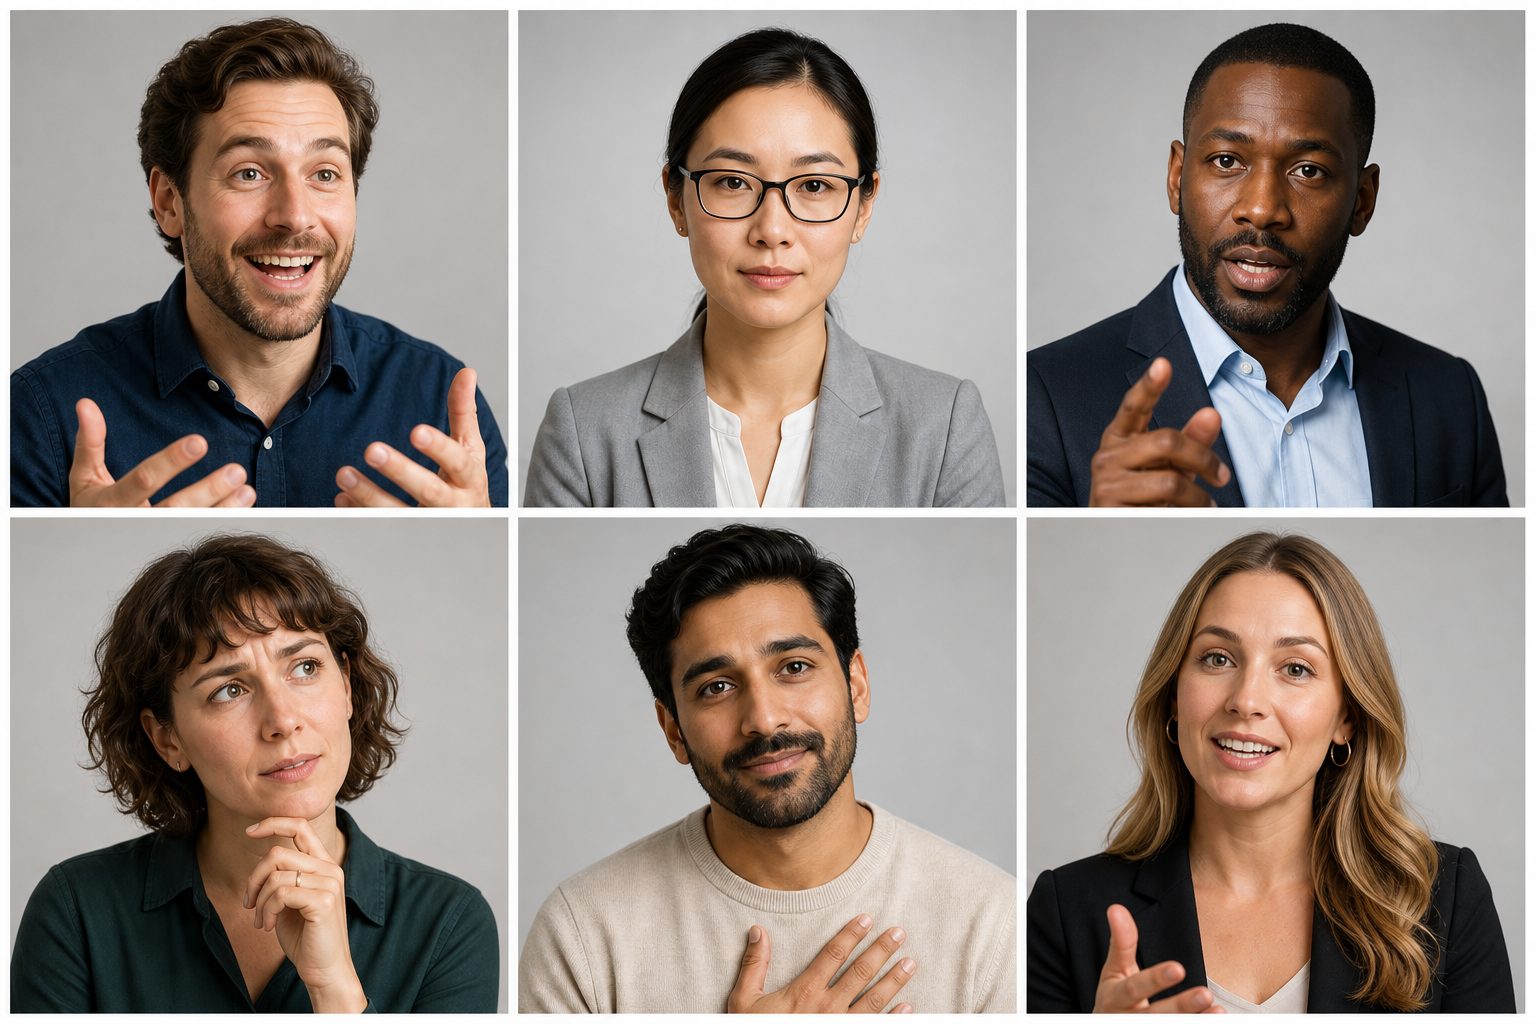
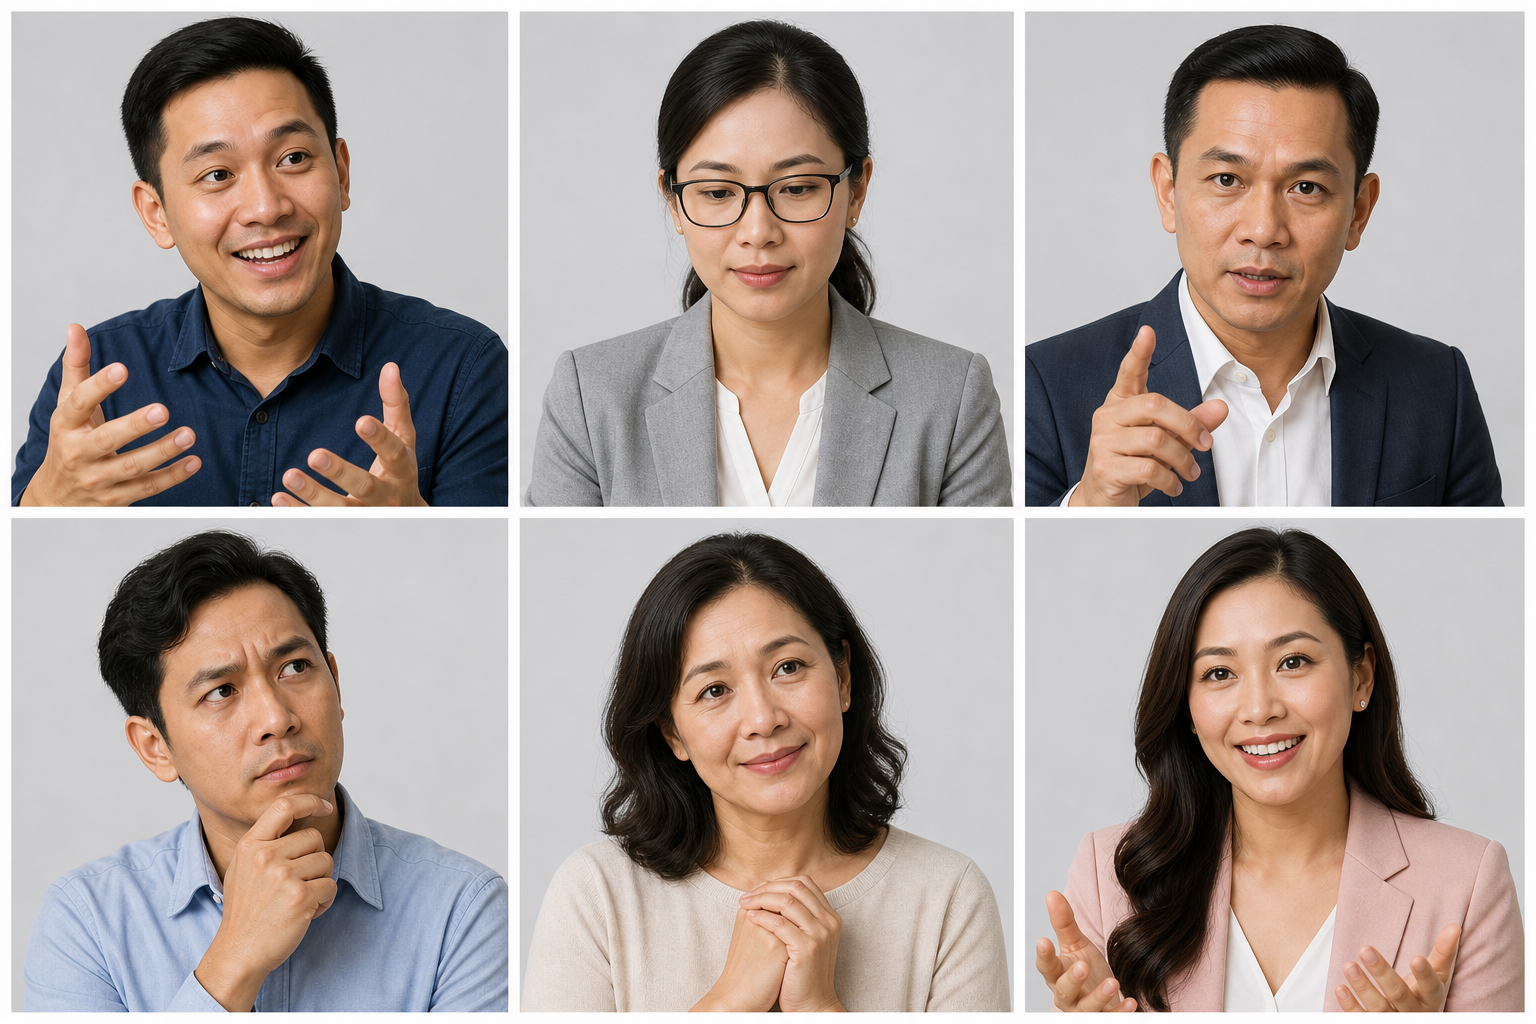
update code

diff --git a/games/communication-styles/index.html b/games/communication-styles/index.html
@@ -90,6 +90,13 @@
         color: var(--ink);
       }
 
+      .inline-answer {
+        border: 1px solid rgba(47, 128, 237, 0.16);
+        box-shadow:
+          0 14px 32px rgba(47, 128, 237, 0.08),
+          inset 0 1px 0 rgba(255, 255, 255, 0.96);
+      }
+
       .quiz-card.correct {
         border-color: rgba(22, 163, 74, 0.52);
         background: #f8fff9;
@@ -138,28 +145,23 @@
 
         <div id="quizGrid" class="grid gap-5 lg:grid-cols-2"></div>
 
-        <div class="mt-6 flex flex-wrap gap-3">
-          <button
-            id="submitBtn"
-            class="min-h-12 rounded-xl bg-[var(--ink)] px-6 text-base font-black text-white shadow-lg shadow-slate-300 transition hover:bg-slate-900"
-          >
-            Nộp bài
-          </button>
-          <button
-            id="resetBtn"
-            class="min-h-12 rounded-xl border border-slate-200 bg-white px-6 text-base font-black text-slate-600 shadow-sm transition hover:text-[var(--ink)]"
-          >
-            Chơi lại
-          </button>
-        </div>
-
-        <section id="answersPanel" class="mt-8 hidden">
-          <div class="mb-4 flex items-center justify-between gap-4">
-            <h2 class="text-2xl font-black text-[var(--ink)]">Đáp án</h2>
-            <p id="scoreText" class="text-sm font-bold text-slate-500"></p>
+        <div class="mt-6 rounded-2xl border border-blue-100 bg-white/78 p-3">
+          <div class="flex flex-wrap items-center justify-center gap-3">
+            <button
+              id="submitBtn"
+              class="min-h-12 rounded-xl bg-[var(--ink)] px-8 text-base font-black text-white shadow-lg shadow-slate-300 transition hover:bg-slate-900"
+            >
+              Nộp bài
+            </button>
+            <button
+              id="resetBtn"
+              class="min-h-12 rounded-xl border border-slate-200 bg-white px-6 text-base font-black text-slate-600 shadow-sm transition hover:text-[var(--ink)]"
+            >
+              Chơi lại
+            </button>
+            <p id="scoreText" class="hidden text-sm font-black text-slate-600"></p>
           </div>
-          <div id="answersGrid" class="grid gap-4 md:grid-cols-2 xl:grid-cols-3"></div>
-        </section>
+        </div>
       </section>
     </main>
 
@@ -167,7 +169,7 @@
       const styles = [
         {
           id: "expressiveness",
-          label: "Biểu cảm mạnh",
+          label: "Thể hiện",
           english: "Expressiveness",
           strength: "Sôi nổi, truyền cảm hứng, dễ kết nối.",
           weakness: "Dễ nói nhiều, lấn át hoặc thiếu lắng nghe.",
@@ -183,7 +185,7 @@
         },
         {
           id: "verbal-aggressiveness",
-          label: "Quyết liệt lời nói",
+          label: "Hung hăng ngôn từ",
           english: "Verbal Aggressiveness",
           strength: "Quyết đoán, bảo vệ quan điểm mạnh trong tình huống khẩn cấp.",
           weakness: "Dễ gây mâu thuẫn hoặc tạo cảm giác căng thẳng.",
@@ -191,7 +193,7 @@
         },
         {
           id: "questioningness",
-          label: "Hay đặt câu hỏi",
+          label: "Hỏi nhiều",
           english: "Questioningness",
           strength: "Đào sâu vấn đề, mở ra góc nhìn mới.",
           weakness: "Dễ bị xem là soi mói hoặc làm chậm thảo luận.",
@@ -199,7 +201,7 @@
         },
         {
           id: "emotionality",
-          label: "Giàu cảm xúc",
+          label: "Cảm xúc",
           english: "Emotionality",
           strength: "Thấu cảm, chân thành, dễ tạo niềm tin.",
           weakness: "Dễ bị cảm xúc chi phối khi gặp áp lực.",
@@ -207,7 +209,7 @@
         },
         {
           id: "impression-manipulativeness",
-          label: "Tạo ấn tượng",
+          label: "Kiểm soát ấn tượng",
           english: "Impression Manipulativeness",
           strength: "Thuyết phục tốt, ngoại giao khéo léo.",
           weakness: "Dễ bị đánh giá là thiếu chân thành nếu quá tính toán.",
@@ -231,7 +233,7 @@
           button.addEventListener("click", selectOption);
         });
 
-        document.getElementById("answersPanel").classList.add("hidden");
+        document.getElementById("scoreText").classList.add("hidden");
       }
 
       function createQuestionCard(style, index) {
@@ -270,6 +272,7 @@
               </div>
             </div>
             <div class="mt-4 grid gap-2 sm:grid-cols-2">${options}</div>
+            <div class="inline-answer mt-4 hidden rounded-2xl bg-white p-4"></div>
           </article>
         `;
       }
@@ -293,6 +296,7 @@
         activeQuestions.forEach((style) => {
           const card = document.getElementById(style.id);
           const selected = answers.get(style.id);
+          const inlineAnswer = card.querySelector(".inline-answer");
           card.classList.remove("correct", "wrong");
 
           if (selected === style.id) {
@@ -301,30 +305,20 @@
           } else {
             card.classList.add("wrong");
           }
+
+          inlineAnswer.classList.remove("hidden");
+          inlineAnswer.innerHTML = `
+            <p class="text-xs font-black uppercase tracking-[0.16em] text-slate-400">Đáp án</p>
+            <p class="mt-2 text-lg font-black text-[var(--ink)]">${style.label}</p>
+            <p class="mt-1 text-sm font-black text-slate-500">${style.english}</p>
+            <p class="mt-3 text-sm leading-6 text-slate-600"><span class="font-black text-green-700">Điểm mạnh:</span> ${style.strength}</p>
+            <p class="mt-2 text-sm leading-6 text-slate-600"><span class="font-black text-rose-700">Điểm yếu:</span> ${style.weakness}</p>
+          `;
         });
 
-        renderAnswers(score);
-        document.getElementById("answersPanel").classList.remove("hidden");
-        document.getElementById("answersPanel").scrollIntoView({ behavior: "smooth", block: "start" });
-      }
-
-      function renderAnswers(score) {
-        const grid = document.getElementById("answersGrid");
-        document.getElementById("scoreText").textContent = `${score}/${activeQuestions.length} câu đúng`;
-
-        grid.innerHTML = activeQuestions
-          .map(
-            (style) => `
-              <article class="answer-card rounded-2xl border border-blue-100 bg-white p-4">
-                <div class="face face-avatar answer-face mb-4" style="background-position: ${style.position};"></div>
-                <p class="text-lg font-black text-[var(--ink)]">${style.label}</p>
-                <p class="mt-1 text-sm font-black text-slate-500">${style.english}</p>
-                <p class="mt-3 text-sm leading-6 text-slate-600"><span class="font-black text-green-700">Điểm mạnh:</span> ${style.strength}</p>
-                <p class="mt-2 text-sm leading-6 text-slate-600"><span class="font-black text-rose-700">Điểm yếu:</span> ${style.weakness}</p>
-              </article>
-            `
-          )
-          .join("");
+        const scoreText = document.getElementById("scoreText");
+        scoreText.textContent = `${score}/${activeQuestions.length} câu đúng`;
+        scoreText.classList.remove("hidden");
       }
 
       function resetQuiz() {
